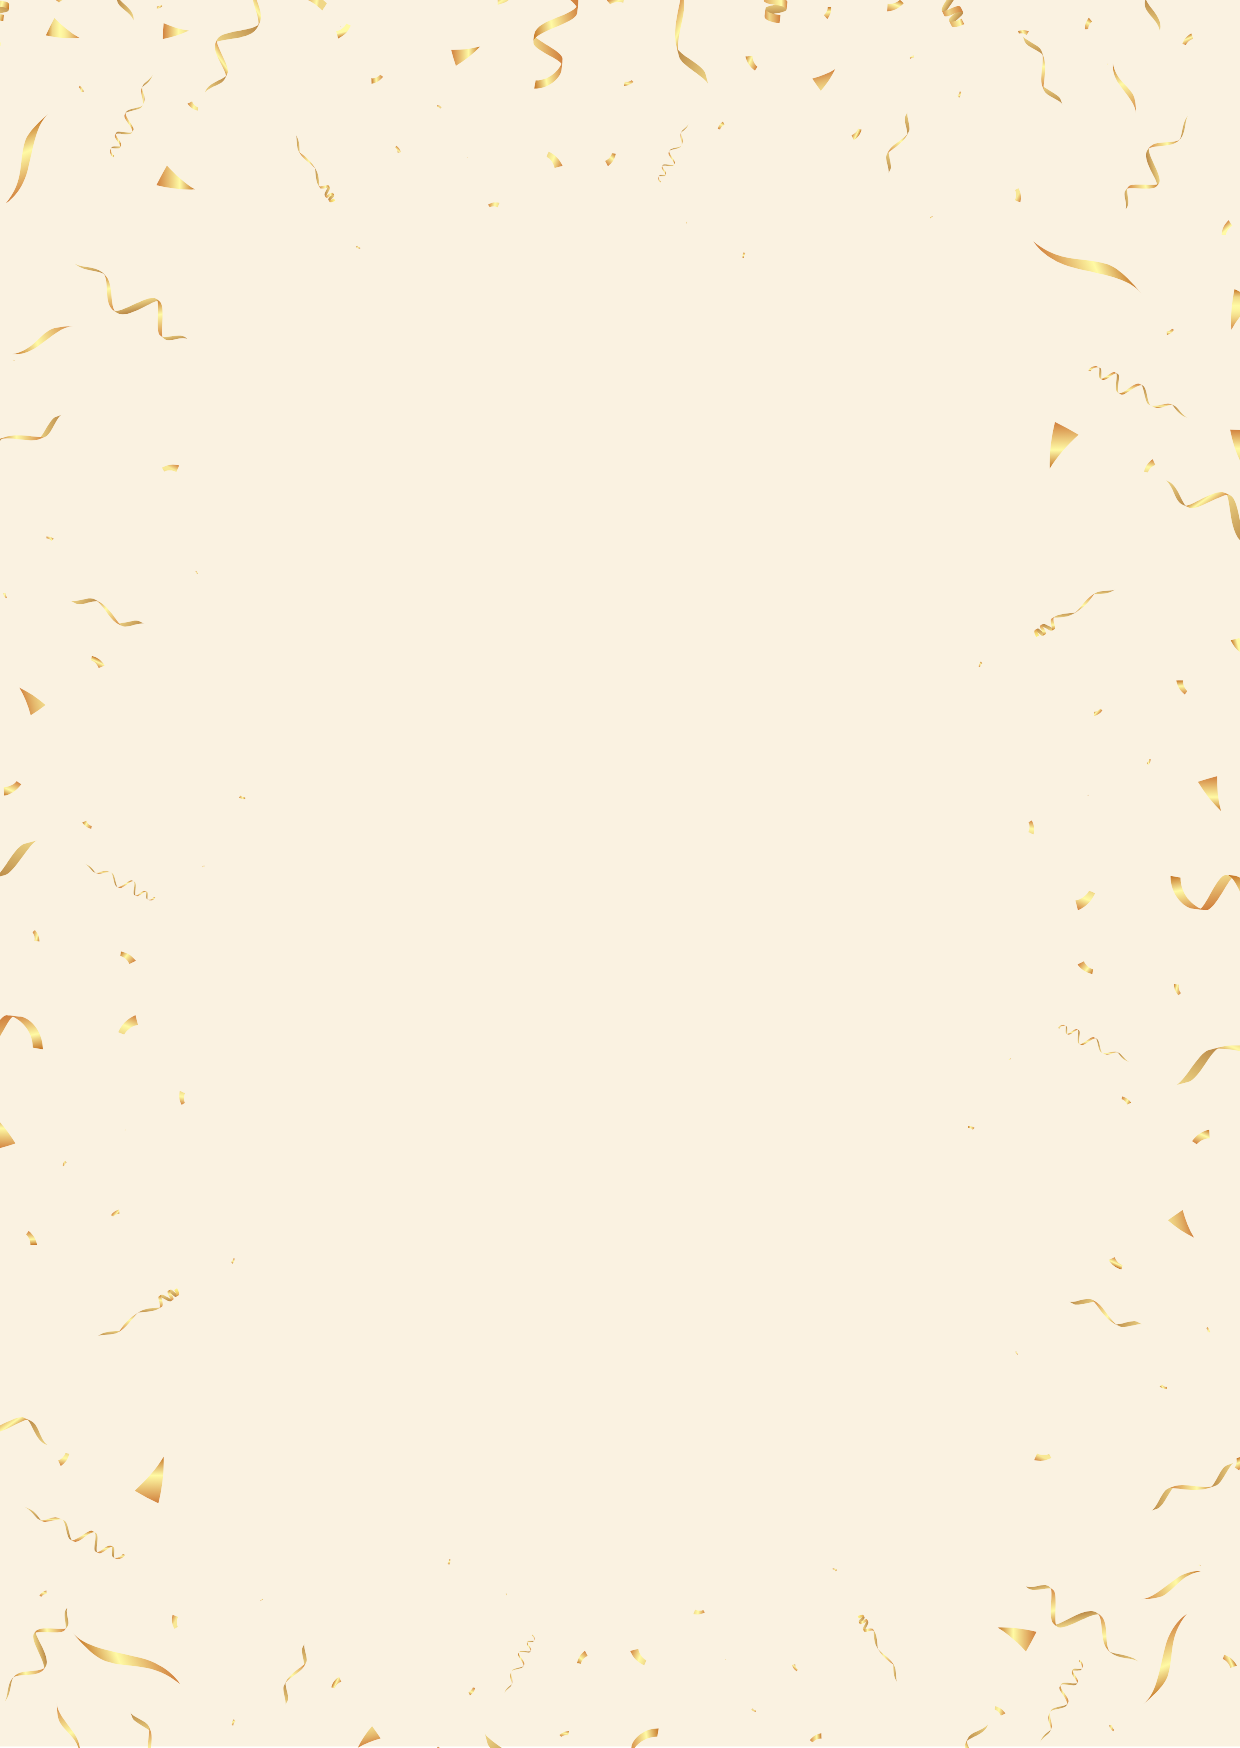
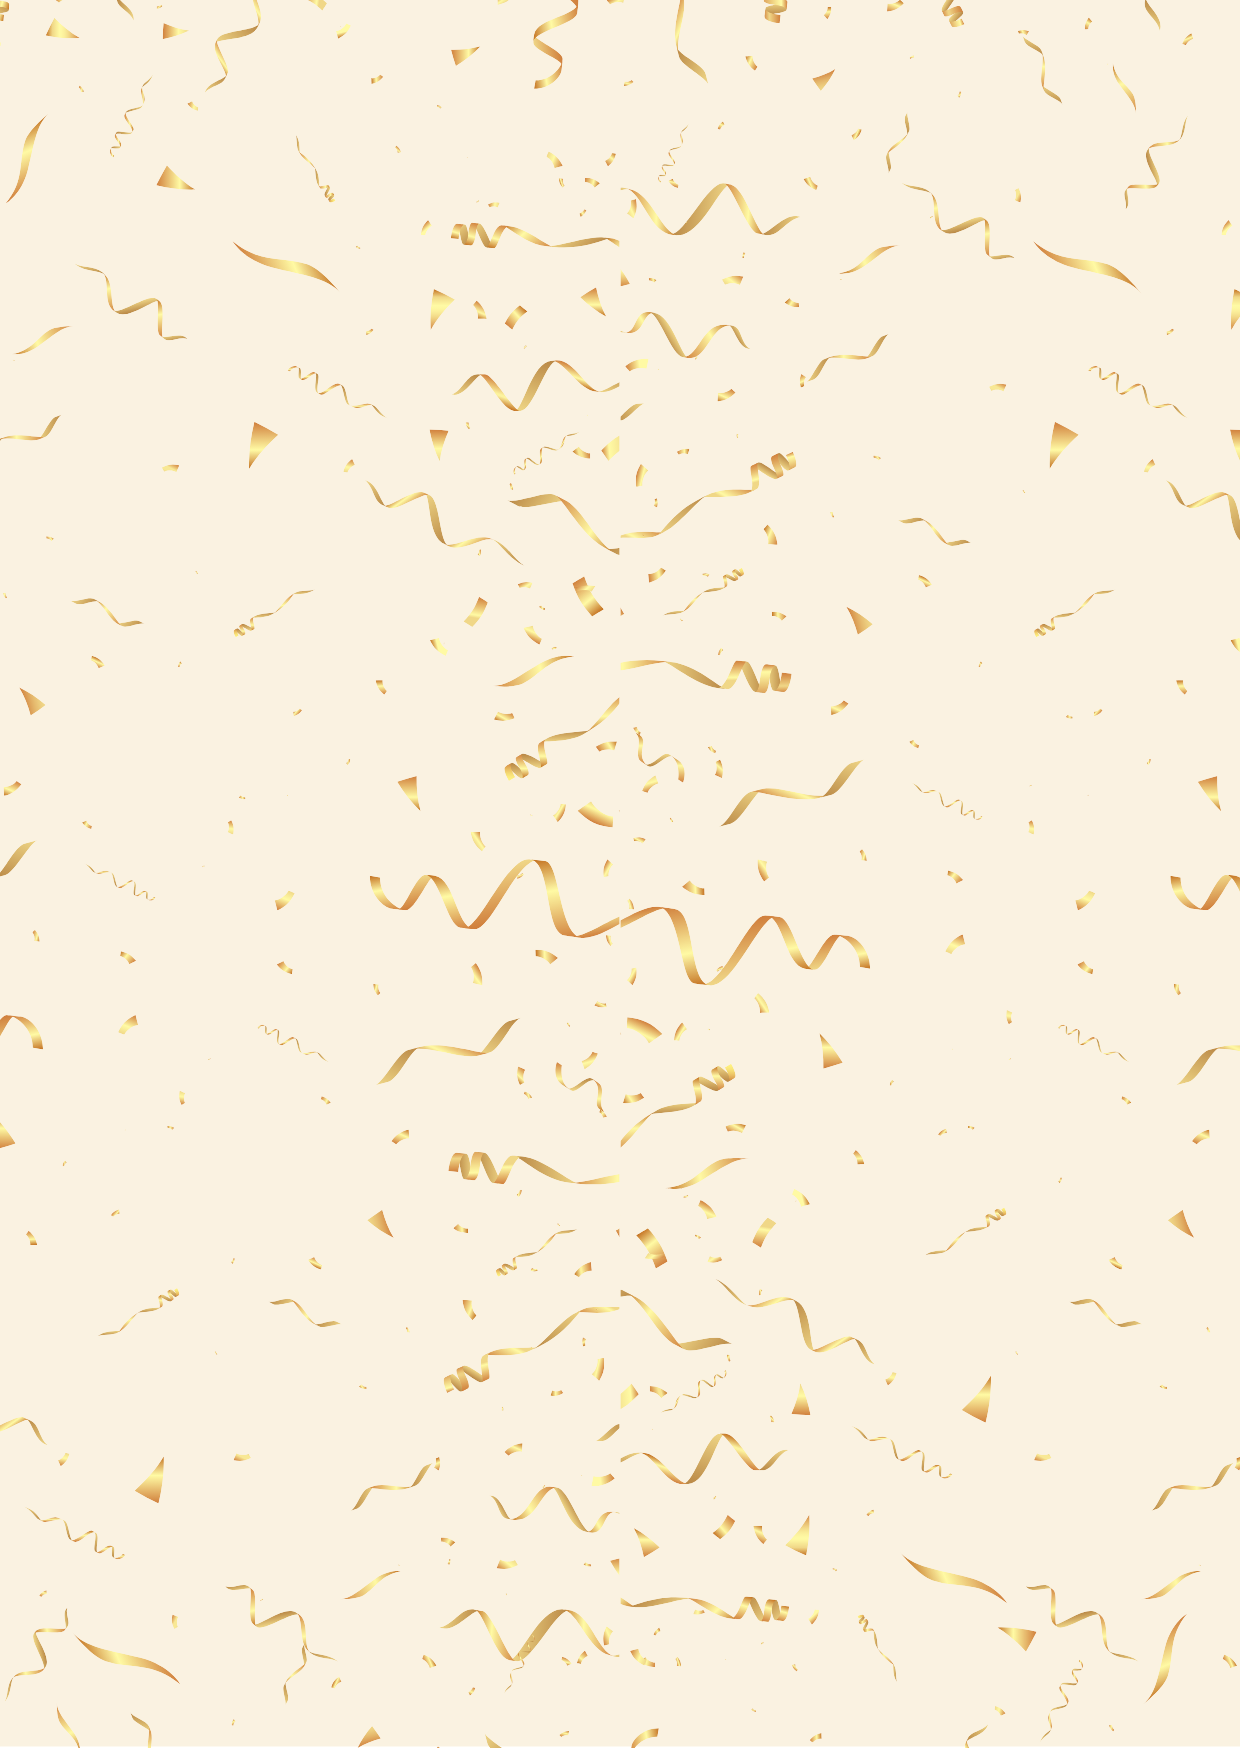
style: update styles and layout for CountdownSection, EventSection, InformasiAcaraSection, QuoteSection, UcapanSalamSection; replace background image

diff --git a/components/EventSection.tsx b/components/EventSection.tsx
@@ -29,14 +29,14 @@ export default function EventSection() {
             width={220}
             height={100}
             alt="Nama"
-            className="w-[180px] lg:w-[280px] h-auto absolute top-10"
+            className="w-[220px] lg:w-[280px] h-auto absolute top-10"
           />
           <Image
             src="/images/skull.svg" // ganti dengan ikon topi jerami
             alt="Pirate Icon"
             width={150}
             height={150}
-            className="absolute -top-30"
+            className="absolute -top-40 lg:-top-30"
           />
         </div>
 
@@ -47,18 +47,18 @@ export default function EventSection() {
             alt="Foto Anak"
             width={250}
             height={250}
-            className="rounded-xl h-[350px] lg:h-[480px] w-auto"
+            className="rounded-xl h-[450px] lg:h-[480px] w-auto"
           />
           <div className="absolute bottom-5 text-center w-full">
             {/* BIRTHDAY PARTY */}
-            <h2 className="text-xl  lg:text-3xl mb-1 tracking-wider font-lilita lg:text-stroke-white font-extrabold text-gray-900">
+            <h2 className="text-3xl  lg:text-2xl mb-1 tracking-wider font-lilita lg:text-stroke-white font-extrabold text-gray-900">
               BIRTHDAY PARTY
             </h2>
 
             {/* Tanggal */}
-            <p className="text-xl lg:text-4xl font-bold text-white font-lilita lg:text-stroke-black">
+            <p className="text-2xl lg:text-3xl font-bold text-white font-lilita lg:text-stroke-black">
               KAMIS,{" "}
-              <span className="text-[#d60000] text-xl lg:text-7xl lg:text-stroke-white">
+              <span className="text-[#d60000] text-5xl lg:text-7xl lg:text-stroke-white">
                 29
               </span>{" "}
               MEI
@@ -73,7 +73,7 @@ export default function EventSection() {
         alt="Balloons Left"
         width={100}
         height={300}
-        className="absolute h-[220px] lg:h-[300px] w-auto -left-8 lg:left-0 top-1/3 z-40"
+        className="absolute h-[240px] lg:h-[300px] w-auto -left-10 lg:left-0 top-1/3 z-40"
       />
 
       {/* Balon Kanan */}
@@ -82,7 +82,7 @@ export default function EventSection() {
         alt="Balloons Right"
         width={100}
         height={300}
-        className="absolute h-[220px] lg:h-[300px] w-auto -right-10 lg:-right-8 top-1/3 z-40"
+        className="absolute h-[230px] lg:h-[300px] w-auto -right-10 lg:-right-4 top-1/3 z-40"
       />
 
       {/* Karakter Kiri (Luffy) */}
@@ -91,7 +91,7 @@ export default function EventSection() {
         alt="Luffy"
         width={80}
         height={120}
-        className="w-[80px] lg:w-[120px] h-auto absolute bottom-0 left-4"
+        className="w-[140px] lg:w-[110px] h-auto absolute bottom-0 left-4"
       />
 
       {/* Karakter Kanan (Sanji) */}
@@ -100,7 +100,7 @@ export default function EventSection() {
         alt="Sabo"
         width={120}
         height={180}
-        className="w-[120px] lg:w-[180px] h-auto absolute -bottom-1 right-4 md:-right-5"
+        className="w-[200px] lg:w-[170px] h-auto absolute -bottom-1 -right-4 md:-right-5"
       />
     </section>
   );

diff --git a/components/UcapanSalamSection.tsx b/components/UcapanSalamSection.tsx
@@ -25,14 +25,14 @@ export default function UcapanSalamSection() {
         viewport={{ once: true }}
       >
         {/* Ucapan Salam */}
-        <p className="text-[#92400e] text-md md:text-xl font-medium leading-relaxed mb-4">
+        <p className="text-[#92400e] text-xl md:text-xl font-medium leading-relaxed mb-4">
           Syalom Salam Sejahtera, <br />
           Dengan ini kami ingin mengundang kehadiran Saudara/i <br />
           untuk menghadiri acara Ulang Tahun anak kami:
         </p>
 
         {/* Balon + Bayi */}
-        <div className="relative -top-20 lg:-top-10 mt-4 mb-6">
+        <div className="relative -top-20 xl:-top-10 mt-4 mb-6">
           {/* Balon */}
 
           {/* Bayi */}
@@ -41,39 +41,41 @@ export default function UcapanSalamSection() {
             alt="Baby"
             width={280}
             height={280}
-            className="relative z-10 rounded-full lg:mb-10"
+            className="relative z-10 rounded-full py-20 lg:py-10 "
           />
           {/* Nama Anak */}
-          <h2 className="text-2xl md:text-3xl font-semibold text-[#92400e] mb-1">
+          <h2 className="text-3xl md:text-3xl font-semibold text-[#92400e] mb-1">
             Gabrian Hawkins Supit
           </h2>
 
           {/* Nama Orang Tua */}
-          <p className="text-amber-600 text-md md:text-lg font-light mt-2">
+          <div className="text-amber-600 text-md md:text-lg font-light mt-2 space-y-4">
             <span className="text-sm text-gray-900">Putra Tercinta dari:</span>{" "}
             <br />
-            Alandhika Supit <br /> & <br /> Intan Kairupan
-          </p>
+            <div className="text-center text-xl">
+              Alandhika Supit <br /> & <br /> Intan Kairupan
+            </div>
+          </div>
         </div>
       </motion.div>
 
       {/* Karakter One Piece */}
-      <div className="absolute bottom-0 left-4 w-36 md:w-48">
+      <div className="absolute bottom-0 left-4 w-48 md:w-48">
         <Image
           src={"/images/ussop.svg"}
           alt="Usopp"
           width={80}
           height={80}
-          className="w-[100px] lg:w-[150px] h-auto"
+          className="w-[130px] xl:w-[130px] h-auto"
         />
       </div>
-      <div className="absolute -bottom-8 -right-15 lg:-right-5 w-48 md:w-48">
+      <div className="absolute -bottom-8 -right-15 xl:-right-5 w-56 md:w-48">
         <Image
           src={"/images/chopper.svg"}
           alt="Chopper"
           width={180}
           height={180}
-          className="w-[200px] md:w-[300px] h-auto"
+          className="w-[300px] md:w-[300px] h-auto"
         />
       </div>
     </section>

diff --git a/components/QuoteSection.tsx b/components/QuoteSection.tsx
@@ -26,7 +26,7 @@ export default function QuoteSection() {
         viewport={{ once: true }}
       >
         {/* Judul */}
-        <h2 className="text-2xl md:text-4xl font-semibold text-[#92400e] italic mb-6">
+        <h2 className="text-4xl md:text-4xl font-semibold text-[#92400e] py-10 italic mb-6">
           Kalimat mutiara
         </h2>
         {/* Logo Atas */}
@@ -35,11 +35,11 @@ export default function QuoteSection() {
           alt="Logo"
           width={160}
           height={160}
-          className=" mb-4  w-[120px] md:w-[180px] h-auto"
+          className="mb-6 w-[120px] md:w-[180px] h-auto"
         />
 
         {/* Frame Kutipan */}
-        <div className="relative bg-[#fef3c7] border-4 border-[#facc15] px-6 py-4 rounded-[30px] w-[85%] lg:w-[60%] shadow-md">
+        <div className="relative bg-[#fef3c7] border-4 border-[#facc15] px-6 py-4 rounded-[30px] w-[80%] lg:w-[60%] shadow-md">
           <p className="text-[#b91c1c] font-medium text-lg lg:text-xl leading-relaxed">
             Sebab malaikat-malaikat-Nya akan diperintahkan-Nya kepadamu untuk
             menjaga engkau di segala jalanmu.
@@ -47,26 +47,26 @@ export default function QuoteSection() {
         </div>
 
         {/* Referensi Ayat */}
-        <p className="text-[#92400e] text-lg italic mt-4">Mazmur 91:11</p>
+        <p className="text-[#92400e] text-xl italic mt-4">Mazmur 91:11</p>
       </motion.div>
 
       {/* Ornamen Luffy dan Zoro */}
-      <div className="absolute bottom-0 left-0 w-36 md:w-48">
+      <div className="absolute bottom-0 left-0 w-48 md:w-44">
         <Image
           src={"/images/luffy2.svg"}
           alt="Luffy"
           width={130}
           height={130}
-          className="w-[150px] lg:w-[200px] h-auto"
+          className="w-[250px] lg:w-[200px] h-auto"
         />
       </div>
-      <div className="absolute bottom-0 right-0 w-36 md:w-48">
+      <div className="absolute bottom-0 right-0 w-48 md:w-44">
         <Image
           src={"/images/nami.svg"}
           alt="Nami"
           width={130}
           height={130}
-          className="w-[150px] lg:w-[240px] h-auto"
+          className="w-[250px] lg:w-[220px] h-auto"
         />
       </div>
     </section>

diff --git a/components/InformasiAcara.tsx b/components/InformasiAcara.tsx
@@ -26,7 +26,7 @@ export default function InformasiAcaraSection() {
 
       {/* Konten Utama */}
       <motion.div
-        className="relative z-10 bg-[#f8d77e]/80 border-2 border-[#caa030] rounded-3xl p-8 md:p-12 max-w-md w-full text-center shadow-lg backdrop-blur-sm"
+        className="relative z-10 bg-[#e6b05a] border-2 border-[#caa030] rounded-3xl p-8 md:p-12 max-w-md w-full text-center shadow-lg "
         initial={{ opacity: 0, y: 40 }}
         whileInView={{ opacity: 1, y: 0 }}
         transition={{ duration: 1 }}
@@ -46,9 +46,9 @@ export default function InformasiAcaraSection() {
           <div className="w-20 h-1 border-b-2"></div>
         </div>
         <div className="text-md lg:text-lg">
-          <span className="text-md text-gray-700 mb-1">Kamis</span>
-          <p className="text-md text-gray-700 mb-1">29 Mei 2025</p>
-          <p className="text-md text-gray-700 mb-4">15.00 - Selesai</p>
+          <span className="text-md text-gray-800 mb-1">Kamis</span>
+          <p className="text-md text-gray-800 mb-1">29 Mei 2025</p>
+          <p className="text-md text-gray-800 mb-4">15.00 - Selesai</p>
         </div>
 
         {/* Ikon Lokasi */}
@@ -70,7 +70,7 @@ export default function InformasiAcaraSection() {
           href="https://maps.app.goo.gl/VvJw16GRmEEPwZZy5?g_st=ac" // ganti link sesuai koordinat
           target="_blank"
           rel="noopener noreferrer"
-          className=" flex justify-center items-center gap-2 mt-2 bg-yellow-500 text-white font-medium px-2 py-2 rounded-full hover:bg-yellow-600 transition"
+          className=" flex justify-center items-center gap-2 mt-2 border-2 text-black text-sm font-light px-2 py-2 rounded-full hover:border-yellow-600 transition"
         >
           <MapPinned size={18} /> <span>OPEN GOOGLE MAPS</span>
         </a>
@@ -83,7 +83,7 @@ export default function InformasiAcaraSection() {
           alt="Ship"
           width={150}
           height={150}
-          className="w-36 md:w-48 h-auto"
+          className="w-48 md:w-48 h-auto"
         />
       </div>
     </section>

diff --git a/components/CountdownSection.tsx b/components/CountdownSection.tsx
@@ -36,8 +36,8 @@ export default function CountdownSection() {
   }, [targetDate]);
 
   return (
-    <section className="relative w-full min-h-screen flex items-center justify-center bg-[#fffff1] px-4 py-16 overflow-hidden">
-      <div className="absolute -top-6 lg:top-6 right-10 md:right-12 w-30 md:w-60 z-10">
+    <section className="relative w-full min-h-screen flex items-center justify-center bg-[#faf2e1] px-4 py-16 overflow-hidden">
+      <div className="absolute top-20 lg:top-1 -right-10 md:right-12 w-60 md:w-60 z-10">
         <Image
           src={"/images/luffy3.svg"}
           alt="Luffy"
@@ -92,7 +92,7 @@ export default function CountdownSection() {
           ))}
         </div>
       </div>
-      <div className="absolute bottom-10 lg:bottom-30 -left-8 md:left-4 w-40 md:w-60 z-10">
+      <div className="absolute bottom-40 lg:bottom-30 -left-8 md:left-4 w-60 md:w-60 z-10">
         <Image src={"/images/robin.svg"} alt="Robin" width={180} height={180} />
       </div>
     </section>
